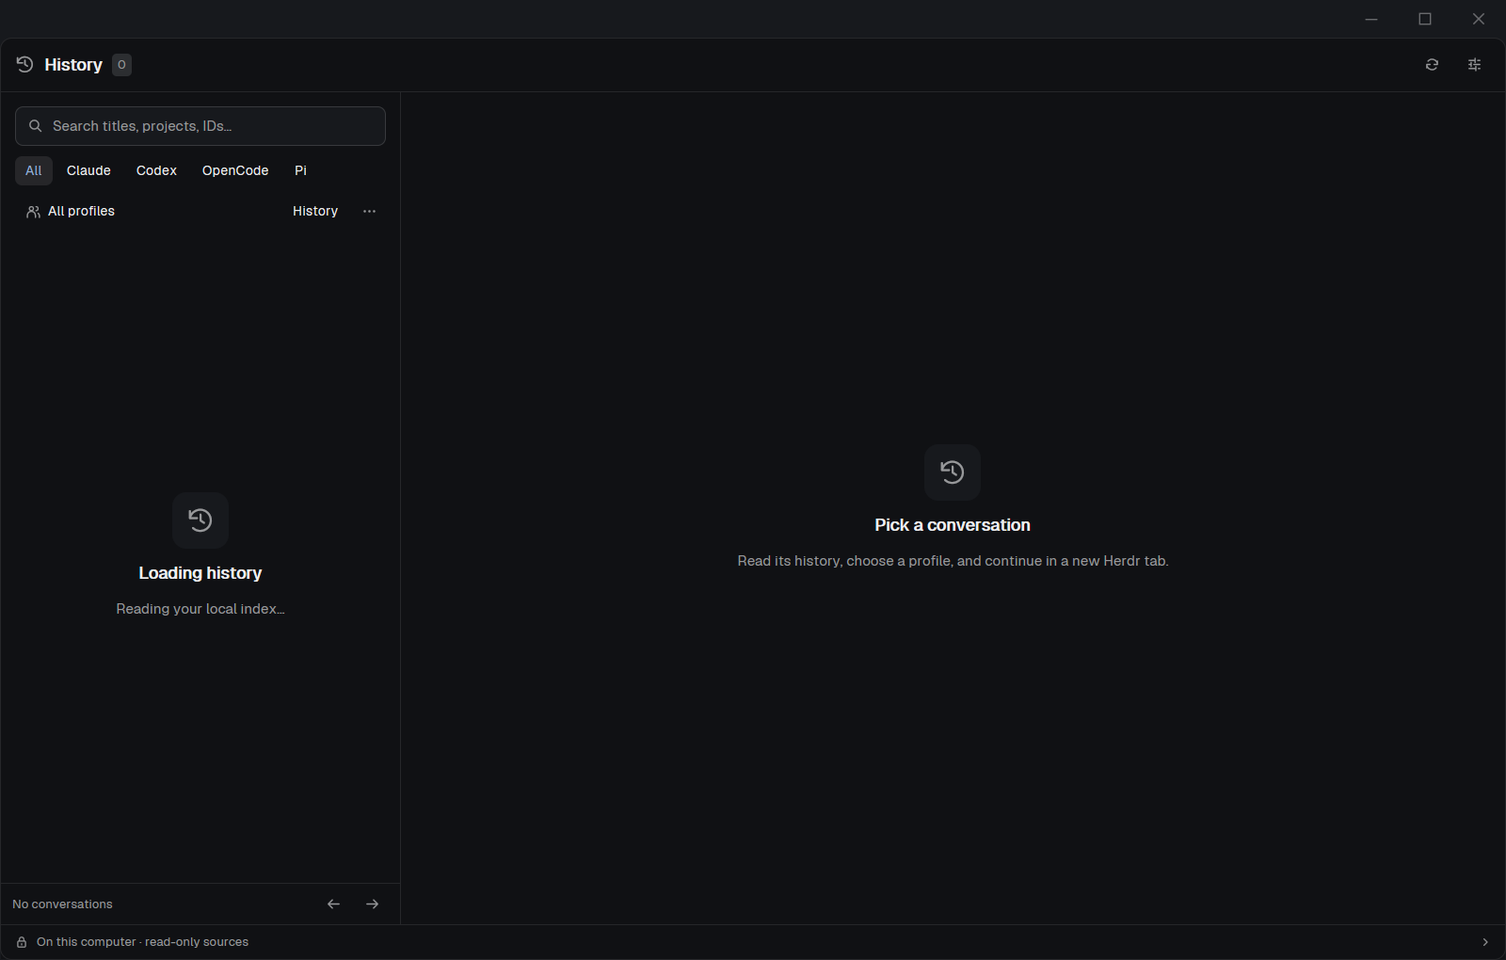
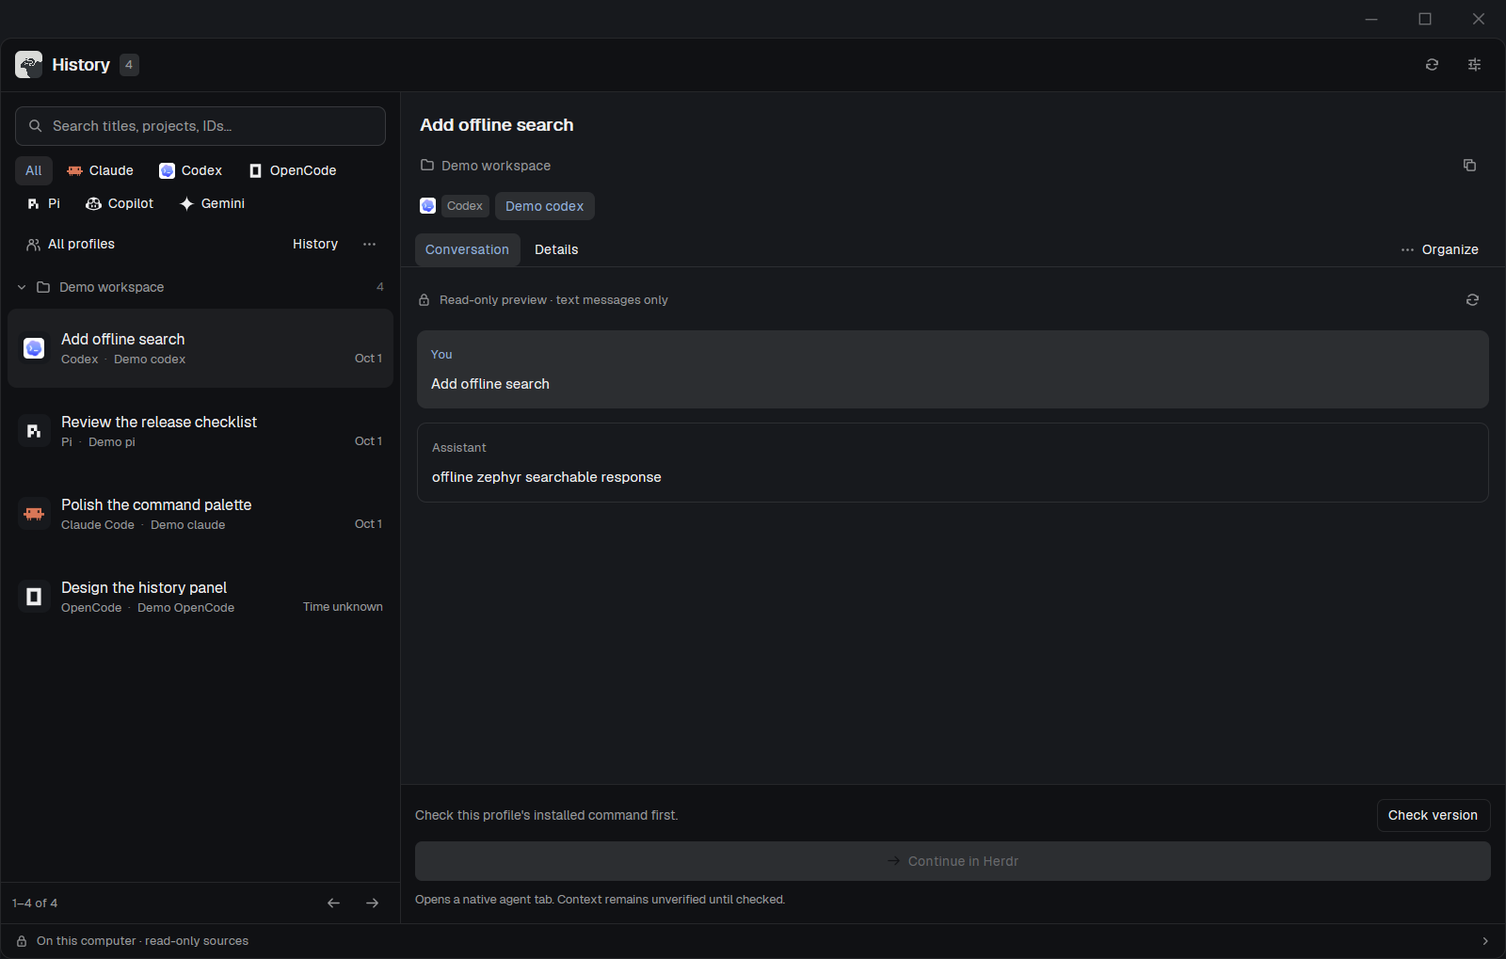
docs(validation): record native themes and security review fixes

diff --git a/docs/FEATURE_STATUS.md b/docs/FEATURE_STATUS.md
@@ -6,9 +6,9 @@ provider acceptance gates passed. This is **0.1.0-dev**, not a production releas
 | ID | Implementation and verified scope | Remaining limits |
 |---|---|---|
 | F01 | User-invoked native command detection; explicit profiles; missing CLI does not hide history | Help/version verified locally; no default home scan |
-| F02 | Four independent adapters; native IDs, cwd, source/profile, times, titles; old external file format fixtures | No real transcript content used; OpenCode refuses live WAL |
+| F02 | Six read-only adapters; native IDs, cwd, source/profile, times, titles; old external file format fixtures | No real transcript content used; OpenCode refuses live WAL |
 | F03 | Normalized metadata substring search, debounced UI, literal FTS token option | Query work bounded; old subprocess may finish before newer query replaces it |
-| F04 | All/four provider chips and profile filtering | Native Codex filter exercised; other actions have host-mock coverage |
+| F04 | All/six history provider chips, profile filtering, live Herdr agent catalog | Native Codex filter exercised; other actions have host-mock coverage |
 | F05 | Explicit profile, cwd trust, version/fingerprint checks, active checks, argv, wrapper revalidation, launch receipts | Native context continuation NOT verified; all same-provider processes conservatively block; Pi/Node particularly restrictive |
 | F06 | Manual refresh beyond onboarding, incremental fingerprints/cache, bounded batches, visible counts/status, cooperative cancel | Enumeration per batch bounded at 20k files/160k entries; large content requires repeated passes |
 | F07 | Personal namespace; `place=none`; installer does not edit layouts/keys; scoped uninstall and backup upgrade | Actual Herdr updater persistence/rollback not runtime-tested |
@@ -24,7 +24,7 @@ provider acceptance gates passed. This is **0.1.0-dev**, not a production releas
 
 ## Release gates still open
 
-1. Real disposable native sessions for all four providers: original cwd + profile,
+1. Real disposable native sessions for all enabled launch providers: original cwd + profile,
    exact native ID and previous context observed after resume. Process start is
    insufficient. No real user session may be used as a probe.
 2. Provider-specific active ownership that permits safe idle-session launch while
@@ -32,13 +32,24 @@ provider acceptance gates passed. This is **0.1.0-dev**, not a production releas
    writes but may block normal usage.
 3. Interactive coverage of every control in real Herdr, multiple panes and both
    themes/narrow widths; host mocks do not establish all native interactions.
-   The user stopped Computer Use during this pass. Complete the populated gallery
-   screenshot and visual community-theme matrix after GUI testing is resumed.
+   The renewed pass verified search/filter/preview/settings, dark/light/custom-theme
+   rendering, multiple panes and captures. Exhaustive native controls and launch remain open.
 4. Actual Herdr update and rollback on a disposable installation, not production.
 5. Independent security review of the helper, crypto envelope, dependency pipeline
    and Windows executable/launch behavior; signed build strategy if binaries ship.
-6. User approval before production installation, GitHub push or gallery publication.
+6. User approval before production installation or gallery/release publication. Source
+   commits and pushing to the requested origin were explicitly authorized.
 
 `version.json` keeps `releaseReady=false`. `build-release.ps1` refuses normal
 release mode until changed after evidence is recorded. `-AllowUnverified` builds
 only an accurately named development bundle.
+
+## Expanded agent support
+
+Claude, Codex, OpenCode, Pi, Gemini and Copilot have fixture-tested local history
+readers. Gemini requires complete bounded replay and an exact project-hash mapping
+for resume. Copilot native launch stays disabled because the installed shim has
+no real CLI. Cursor, Amp and every other native/custom Herdr catalog entry appear
+in Settings → Agents with truthful capability status; no undocumented disk reader
+or silent generic launch is used. This is catalog parity, not universal history
+or native-continuation acceptance. See PROVIDER_MATRIX.md.

diff --git a/docs/TEST_RESULTS.md b/docs/TEST_RESULTS.md
@@ -94,3 +94,45 @@ Local package/install/uninstall verification is recorded in RELEASE_REPORT.md.
 No production installation or original deletion was performed. The folder was not
 a Git checkout at the start; the user later explicitly requested initialization,
 logical commits and a push to their origin. Release publication remains separate.
+
+## Quality/catalog follow-up (supersedes counts and interrupted-GUI notes above)
+
+- Full Python suite: **42 passed**, 20.657 seconds with ordinary desktop filesystem
+  permissions. Ten-thousand-record list/search page: 0.443 seconds while native
+  GUI checks were running; timing is a sample, not a benchmark guarantee.
+- Panel host suite: **9 test groups passed**, including delayed startup, normal
+  list and final-refresh query replacement; focused input shortcut protection;
+  native catalog/custom entries and icon tint versus full-color behavior.
+- Ruff 0.17.4 correctness checks (`F`, `E9`): passed. Tool is development-only,
+  pinned/hash-locked separately from runtime dependencies.
+- Installed native Herdr 0.1.15 check: passed after new catalog/icons and height
+  changes. The final release builder repeats it against packaged source.
+- Offline install/upgrade/uninstall smoke: passed with new assets/adapters. The
+  installed helper imports correctly under `-I`; artwork license is present;
+  layout/key/original sentinels keep their hashes.
+
+New fixtures cover Copilot root event extraction and disabled launch; subagent
+`agentId` and `parentToolCallId` exclusion from text/cwd; Gemini legacy JSON and
+JSONL patch/order/removal/replacement/rewind; cumulative 10k message budget;
+unknown cwd despite workspace directories; exact project hash mapping; oversized
+and malformed metadata-only fallback; no obsolete text after journal updates.
+Other regressions prove per-profile FTS opt-out with shared physical sources, AND
+terms across chunks, record-budget partial coverage, atomic recovery failure and
+keep-local with no previous annotation.
+
+The visible isolated app `.dev/herdr-visual` uses the same disposable core and
+synthetic histories. Native interaction verified provider filtering (four → one),
+search typing/debounce (offline → one), detail/async preview, Profiles/Agents
+settings, dark/paper/custom-community-format colors and correct provider artwork.
+Two concurrent views verified a 420px narrow pane with Back navigation, preview,
+and a separate wide pane: filtering the narrow pane left the other pane at four
+records. Native status reported `errors: []`. A first hidden launch did not expose
+a Windows automation target; the visible isolated launch resolved that.
+
+Native testing found two rendering defects that host mocks could not establish:
+missing full-height detail flex container and numeric line-height interpreted as
+a multiplier. Both were corrected and observed again with the loaded transcript.
+`preview.png` is now a populated, unmodified dark-theme frame. Light and custom
+community-format captures are under `docs/screenshots/`. No real histories or
+credential files were used. These checks do not prove every action in every theme
+or any actual native provider-context continuation.

diff --git a/README.md b/README.md
@@ -1,18 +1,18 @@
 # Herdr Session Hub
 
-A native Herdr Desktop history panel for Claude Code, Codex, OpenCode and Pi.
+A native Herdr Desktop history panel for Claude Code, Codex, OpenCode, Pi, Gemini
+and Copilot, with a live capability catalog for every Herdr agent.
 
 **Development candidate — not production-ready.** The implementation and local
 test suite are present. Native GUI rendering/filtering/preview were exercised on
-Windows; actual restored provider context has not been verified for all four
-agents. Production installation and publication have not been performed.
+Windows; actual restored provider context has not been verified. Production installation and publication have not been performed.
 
 Session Hub discovers explicit local roots, searches metadata and opted-in text,
 groups projects, previews plain conversation text, and stores aliases/archive
 flags separately from originals. Hub state is encrypted with Windows DPAPI.
 The native layout uses compact rows, responsive master/detail navigation and
-Herdr semantic colors for built-in and community themes; visual acceptance across
-themes remains incomplete because GUI automation was stopped.
+Herdr semantic colors and official icons for built-in and community themes. Dark,
+light and a custom community-format theme were checked in the native GUI.
 Portable encrypted metadata bundles have dry-run import and conflict handling.
 Native resume requests use explicit profile directories, original cwd and argv
 arrays. OpenCode reads its installed-version SQLite schema without starting the
@@ -21,7 +21,7 @@ bounded reads and visible partial coverage.
 
 | Capability | Status |
 |---|---|
-| F01–F04 discovery, history, metadata search, filters | Implemented; four synthetic adapters tested |
+| F01–F04 discovery, history, metadata search, filters | Implemented; six history adapters fixture-tested |
 | F05 native continuation | Guarded launch implemented; actual continuity unverified; active checks conservative |
 | F06–F11 refresh, layout preservation, roots, preview, grouping, profiles | Implemented; native smoke and synthetic tests; update persistence not runtime-tested |
 | F12 full-text search | Opt-in encrypted local FTS5; bounded incremental coverage |
@@ -35,8 +35,10 @@ See the full [F01–F16 status and release gates](docs/FEATURE_STATUS.md),
 
 Tested environment: Windows 11, Herdr 0.1.15, herdr-core 0.1.20, CPython 3.14.3,
 SQLite 3.50.4, Node 24.14.1 (tests only). CLI help/version probes: Claude 2.1.322,
-Codex 0.164.0, OpenCode 1.3.17, Pi 1.1.0. This does not imply four-provider native
-resume acceptance. macOS/Linux, UNC and WSL are unsupported in this build.
+Codex 0.164.0, OpenCode 1.3.17, Pi 1.1.0, Gemini 0.49.0. Copilot is a missing-CLI shim; its native continuation
+is disabled. Cursor, Amp and other Herdr/custom agents are recognized with honest
+unavailable-history status when no verified offline adapter exists. This does not
+imply native resume acceptance. macOS/Linux, UNC and WSL are unsupported in this build.
 
 For a synthetic isolated demo or a local development bundle, follow
 [CONTRIBUTING.md](CONTRIBUTING.md). Install/uninstall/upgrade/rollback instructions

diff --git a/docs/CODE_REVIEW.md b/docs/CODE_REVIEW.md
@@ -1,0 +1,49 @@
+# Source review — 2026-11-12
+
+The code-review skill ran separate Standards and Spec reviews against the
+requirements baseline `ecaa73d..HEAD`, followed by review of the working expansion.
+These are source reviews, not an independent security audit. The sections retain
+the two review axes; a passing source check does not close native release gates.
+
+## Standards
+
+The final reviewer reported these areas addressed: shared-source FTS authorization;
+recovery retaining current state until replacement; partial byte/record coverage;
+snapshot-aware UI requests, input focus and preview generations; independent parser
+modules with fixed-path isolated imports; Copilot subagent exclusion; and authoritative
+Herdr icon tint/full-color handling.
+
+Its remaining P2 finding was startup overwriting an early filtered response. Startup
+now uses `requestFor`/`publishList`, and a delayed-initial-response regression passes.
+The earlier monolithic parser/repeated-switch concern was a design judgement;
+provider parsing now has a fixed registry and separate modules. OpenCode's bounded
+immutable database operations remain grouped in the helper, with dedicated tests.
+
+Standards disposition: **0 reported actionable findings left unresolved**. The most
+serious original issue was profile-specific search privacy (P1), now regression-tested.
+
+## Spec
+
+The final reviewer confirmed the search/refresh race fixes and nine host groups
+(eight at the time of its last run). It reproduced two new expansion defects:
+Copilot `agentId` subagent content/cwd contamination and Gemini's cumulative message
+budget after a checkpoint. Both are fixed with explicit fixture assertions.
+
+The earlier FTS opt-out, cross-chunk AND semantics, keep-local-with-no-annotation,
+and dropped-search findings are fixed and tested. Live catalog/custom-agent
+recognition and artwork handling were assessed as correctly integrated.
+
+The reviewer explicitly accepted that Copilot continuation and unknown/Cursor/Amp
+history are presented as unavailable. These remain capability limits, not feature
+passes. Native continuation, exact active ownership and real Herdr updater testing
+remain open requirements, detailed in FEATURE_STATUS.md. No unsupported reader or
+resume command is substituted for them.
+
+Spec disposition: **0 reported implementation defects left unresolved; 3 main
+acceptance areas still open** (native continuation/profile isolation, precise active
+ownership, actual Herdr update/rollback). The worst original implementation defect
+on this axis was FTS privacy (P1), now fixed.
+
+Summary: Standards 0 unresolved actionable findings; Spec 0 unresolved reported
+implementation defects with the above acceptance gaps. No production-ready or
+independent-security-audit claim follows from this review.

diff --git a/docs/UI_DESIGN.md b/docs/UI_DESIGN.md
@@ -17,16 +17,18 @@ view, CSS/DOM, external UI framework or fixed light/dark color palette.
 - Conversation, Details and Organize separate reading from technical metadata
   and metadata edits. The native continuation action stays at the bottom with
   relevant profile/version/project-trust guidance.
-- Settings separates Profiles, Search and Portability. Profile setup is guided;
+- Settings separates Profiles, Agents, Search and Portability. Profile setup is guided;
   advanced JSON is disclosed explicitly rather than being the primary workflow.
   Secondary list filters and diagnostics are disclosed on demand.
 
 `theme()` is read on every render. `semanticTheme()` resolves missing aliases
 through other Herdr tokens; it does not guess a palette from brightness. Text,
 backgrounds, hover/selection, borders, warning colors and primary button text all
-come from that active semantic theme. Icons use native tinted SVGs. Font family is
+come from that active semantic theme. Navigation icons use native tinted SVGs. Agent icons use Herdr
+`Program.tint` to choose a themed mask or original full-color image. Font family is
 inherited from Herdr. Valid community themes get the same semantic projection as
-Herdr's built-in panels; the mod never paints branded provider colors over them.
+Herdr's built-in panels; controls retain semantic colors while original full-color brand artwork is
+preserved, matching Herdr's own agent menu.
 
 Unit/host-mock checks cover dark, light and partial community token maps,
 responsive navigation and state isolation. The redesigned initial layout rendered
@@ -34,3 +36,18 @@ in the actual installed Herdr GUI. Full interactive community-theme visual revie
 was interrupted when the user stopped Computer Use and remains a release gate.
 No claim of universal contrast for malformed or intentionally low-contrast user
 palettes is made; the mod respects the colors Herdr resolves for that theme.
+
+## Renewed native visual checks — 2026-11-12
+
+The visible isolated window confirmed real provider chips/icons, debounced search,
+conversation preview, settings navigation and live catalog cards. Native testing
+found and fixed the detail column's cross-axis height and a line-height value
+interpreted as an 18× multiplier; transcript lines now use `18px`. Scroll cards
+retain their intrinsic height. Continue is disabled until profile/version/trust
+and SDK prerequisites hold.
+
+`preview.png` is now a real populated dark-theme capture. `screenshots/light.png`
+and `screenshots/community.png` are real isolated native renders, using paper and
+a custom community-format fixture derived from the installed Atom One Dark
+format. They are evidence of tested themes, not a claim that every community
+palette has accessible contrast. No user histories appear in them.

diff --git a/docs/USER_GUIDE.md b/docs/USER_GUIDE.md
@@ -1,7 +1,7 @@
 # Using Session Hub
 
 This build is a development candidate. It has passed synthetic Windows and
-native-render checks; actual context continuation in all four providers remains
+native-render checks; actual context continuation remains
 unverified. Do not use it as the only copy of important metadata.
 
 ## Setup and opening
@@ -186,3 +186,22 @@ pwsh -NoProfile -File scripts/uninstall.ps1 -AppHome "$HOME/.config/herdr-app" -
 
 The uninstaller targets only named Hub namespaces. Provider originals, auth,
 Herdr layouts and keys are untouched. Close any Hub pane through Herdr itself.
+
+## Herdr agent catalog, Gemini and Copilot
+
+Settings → Agents follows Herdr's current names, icons and installed detection,
+including custom agents. A detected command does not imply history support.
+Cursor/Amp/other agents with no verified reader show an unavailable explanation.
+
+Gemini profiles select the explicit `.gemini` config folder and a narrow `tmp`
+chat-history subtree. Detect command can select `node.exe` plus the installed
+`@google/gemini-cli/bundle/gemini.js`; shell shims are not executed. The optional
+Original project path must exactly match the recorded SHA-256 project hash. A
+missing/mismatched path leaves the project unknown and Continue disabled. Legacy
+JSON and current JSONL replay is complete only within 2 MiB and 10k messages;
+larger or malformed files stay metadata-only.
+
+Copilot profiles select the explicit Copilot home and `session-state` subtree.
+`events.jsonl` beneath UUID directories is read without starting Copilot. The
+installed VS Code shim is not a usable CLI, so Continue remains disabled. No
+auto-install or cloud API fallback runs. Rewind/truncation preview is partial.

diff --git a/docs/SECURITY_REVIEW.md b/docs/SECURITY_REVIEW.md
@@ -71,3 +71,26 @@ operations and remote endpoints are not implemented. No source data was deleted
 or production mod installed. The user later explicitly authorized source commits
 and a push to their GitHub origin; no GitHub Release or gallery publication was
 performed.
+
+## Follow-up findings and remediation
+
+Review discovered a shared-source FTS privacy bug: an opted-out profile could see
+content matches from an opted-in profile sharing the same file. Content hits now
+require the current target's enabled state, opt-in, approved root and exclusions;
+metadata search remains separately available. Regression verifies both targets.
+
+Recovery previously renamed current state away before replacement was durable.
+It now atomically preserves encrypted evidence and keeps current state in place
+until replacement succeeds. A missing current file with an existing backup refuses
+silent empty initialization. Failure injection and offline recovery tests pass.
+
+Keep-local now leaves absent local annotations absent. Partial record-budget and
+oversized coverage is explicit, including old rows whose source identity changed.
+Copilot subagent events are rejected before either cwd or text is extracted.
+Gemini replay checks total projected messages, not only physical journal records;
+full-file replay prevents indexing text that later patches removed. Greater-than-
+budget/malformed Gemini sources disable launch and expose metadata-only fallback.
+
+No live credential-isolation, exact active-owner or native-context verification
+claim is added. The new source review is separate from CodeQL and is not an
+independent third-party security audit. See CODE_REVIEW.md.

diff --git a/RECIPE.md b/RECIPE.md
@@ -1,7 +1,8 @@
 # Session Hub — native history panel (development candidate)
 
 Native GPUI mod for Herdr Desktop 0.1.15 on Windows x64. Explicit profiles discover
-Claude Code, Codex, Pi and quiescent OpenCode histories without moving transcripts.
+Claude Code, Codex, Pi, quiescent OpenCode, Gemini and Copilot histories without
+moving transcripts. Native catalog artwork follows the installed Herdr.
 Search/filter/group, read bounded previews, create aliases, archive or hide entries.
 Opt in to encrypted local content indexing. Request native resume in a local
 Herdr tab with explicit profile and cwd; continuity is not automatically verified.
@@ -11,9 +12,8 @@ Requires CPython 3.14 and offline dependency installation through
 `place=none` so installation does not alter the current layout or hotkeys. Open
 with `herdr-app do mod.open --name session-hub` after approving installation.
 
-The accompanying preview is a real installed-Herdr initial loading render of
-the refined layout. A populated gallery capture remains pending after GUI testing
-was stopped. It does not establish native provider continuity. Original deletion,
+The accompanying preview is a real populated isolated-Herdr capture of the
+refined layout. Dark, paper and a custom community-format theme were checked. It does not establish native provider continuity. Original deletion,
 native transcript migration and remote sync are unavailable. See README.md and
 docs/FEATURE_STATUS.md for the release blockers. Do not list this candidate as a
 production gallery release before those gates pass.

diff --git a/docs/RELEASE_REPORT.md b/docs/RELEASE_REPORT.md
@@ -13,14 +13,15 @@ Classification: **0.1.0-dev, Windows x64 development candidate**.
   sentinels. All targets were disposable directories under this repository.
 - Provider originals and production Herdr configuration were not installation
   targets. No GitHub Release or gallery listing was created.
-- GUI automation was stopped by the user. Remaining native visual/theme and
-  continuation acceptance gates are explicit in FEATURE_STATUS.md.
+- The renewed visible GUI pass verified search/filter/preview/settings, multiple
+  panes, narrow navigation and dark/light/custom-theme rendering. Exhaustive native
+  controls and actual continuation remain open in FEATURE_STATUS.md.
 
 ## Bundle contents and verification
 
 `scripts/build-release.ps1 -AllowUnverified` produces an explicitly named local
 development ZIP and SHA-256 sidecar under `dist/`. It includes mod/helper source,
-native SVG assets, tests, scripts, documentation, the genuine initial-render
+native SVG assets and artwork license, tests, scripts, documentation, genuine populated
 preview and the three locked offline dependency wheels. Each payload file has a
 SHA-256 entry in `SHA256SUMS.txt`. Source state, user paths/runtime.json, research
 repositories, environments, SDK-generated declarations and provider histories

diff --git a/docs/ARCHITECTURE.md b/docs/ARCHITECTURE.md
@@ -57,3 +57,15 @@
 - Personal mod lives at `~/.config/herdr-app/mods/session-hub/`. Shipped Herdr mods may change during Herdr upgrades; personal copies persist.
 - On startup check expected API capabilities, display diagnostic and disable affected actions on incompatibility.
 - Run `herdr-app check` and interactive smoke tests after upgrading the app; support rollback to last tagged working release.
+
+## Implemented reader boundary
+
+`helper/adapters/` contains independent Claude/Codex/Pi/Copilot/Gemini readers and
+shared conversation-only normalization. A fixed local package loader preserves
+Python `-I` isolation without adding cwd or provider paths to imports. The helper
+retains bounded file/SQLite I/O, DPAPI store, profile validation and launch policy.
+Gemini projection runs only on complete bounded input; its append operations can
+remove text, so every file generation replaces indexed text. OpenCode's immutable
+reader refuses WAL and has its own fixture coverage. Live native catalog artwork
+is display metadata only; no agent-provided `run` vector becomes a guessed resume
+command. Each resumed session still uses its audited provider-specific contract.

diff --git a/CHANGELOG.md b/CHANGELOG.md
@@ -15,3 +15,16 @@
 - Kept original deletion, native migration and remote sync unavailable.
 - Production release remains blocked on native context-continuation checks,
   precise active ownership, update validation and independent review.
+
+### Quality and catalog follow-up
+
+- Added Copilot root-event history and bounded Gemini JSON/JSONL replay, with
+  rewind/patch/removal handling and explicit unsupported states.
+- Added the live Herdr agent catalog, official sheep artwork with retained
+  license, and native provider icons/chips respecting full-color/tint rules.
+- Fixed profile-specific FTS privacy, terms across chunks, dropped/stale search
+  results (including startup/refresh), focus shortcuts, atomic recovery and
+  keep-local import choices.
+- Fixed native conversation height/typography and gated Continue prerequisites.
+- Added pinned correctness lint and reduced CI to relevant Windows checks and
+  one main-branch CodeQL job, with stale-run cancellation.
